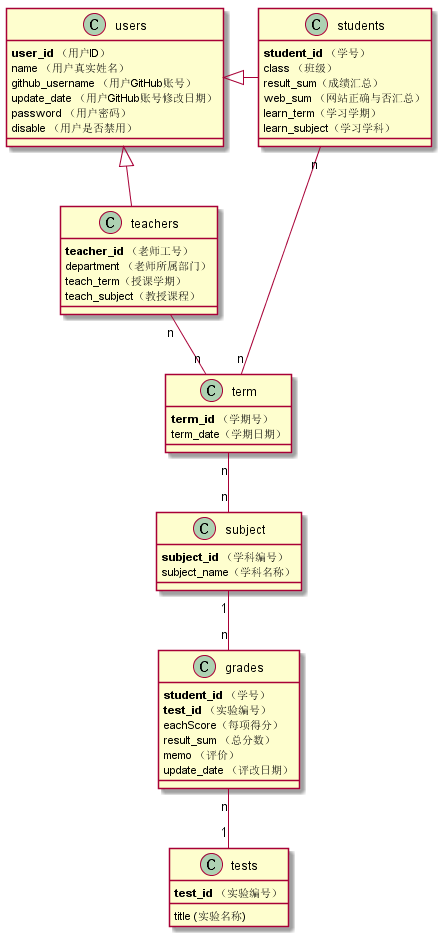
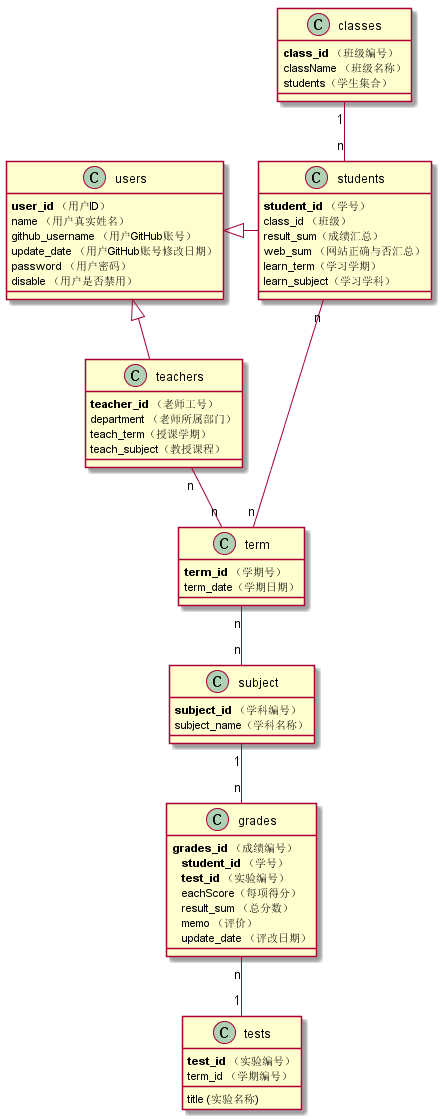
2018/5/26

diff --git a/test6/README.md b/test6/README.md
@@ -1,4 +1,4 @@
-# 实验5：图书管理系统数据库设计与界面设计
+# 实验6：基于GitHub的实验管理平台的分析与设计
 |学号|班级|姓名|照片|
 |:-------:|:-------------: | :----------:|:---:|
 |201510414101|软件(本)15-1|安春生|![flow1](../test1/20607259.png)|
@@ -51,7 +51,7 @@
     |STUDENT_ID|VARCHAR2(50 BYTE)|主键|否| | | 学生的学号|
     |USER_ID|NUMBER(8,0)|外键|是| |空| 学生的用户ID，USERS表的外键，为空表示还没有建立用户|
     |CLASS_ID|VARCHAR2(20 BYTE)|外键|否| | | 班级编号|
-    |RESULT_SUM|VARCHAR2(400 BYTE)|外键|是|空| | 成绩汇总（来自GRADES表），以逗号分开，第一个成绩是平均成绩,后面是每次实验的成绩，每次实验的成绩包含一个总成绩和各项评分的成绩，N表示未批改，平均分只计算已批改的。比如：“81.25,70,80,85,90,N”表示一共批改了4次，第5次未批改，4次的成绩分别是81.25,70,80,85,90,N，4次的平均分是81.25|
+    |GRADES_SUM|VARCHAR2(400 BYTE)| |是|空| |成绩集合|
     |WEB_SUM|VARCHAR2(400 BYTE)| |是|空| | GitHub网址是否正确，用逗号分开，Y代表正确，N代表不正确。第1位代表总的GitHUB地址是否正确，第2位表示第1次实验的地址，第3位表示第2位实验地址，依此类推。比如：“Y,Y,Y,Y,Y,N”表示第5次实验地址不正确，其他地址正确|
     |LEARN_TERM|VARCHAR2(400 BYTE)| |是| | | 学生修课的学期|
     |LEARN_SUBJECT|VARCHAR2(400 BYTE)| |是| | | 学生学习的科目|
@@ -84,7 +84,7 @@
     |:-------:|:-------------:|:------:|:----:|:---:|:----:|:----------|
     |STUDENT_ID|VARCHAR2(50 BYTE)|联合主键1，外键|否| | | 学生的学号，STUDENTS表外键|
     |TEST_ID|NUMBER(6,0)|联合主键2，外键|否| | | 实验编号，TESTS表的外键|
-    |RESULT_SUM|NUMBER| |是|空| 取值0-100| 总分数，这个值为空表示没有批改|
+    |RESULT_SUM|NUMBER| |是|空| 取值0-100| 成绩汇总（来自GRADES表），以逗号分开，第一个成绩是平均成绩,后面是每次实验的成绩，每次实验的成绩包含一个总成绩和各项评分的成绩，N表示未批改，平均分只计算已批改的。比如：“81.25,70,80,85,90,N”表示一共批改了4次，第5次未批改，4次的成绩分别是81.25,70,80,85,90,N，4次的平均分是81.25|
     |MEMO|VARCHAR2(400 BYTE)| |是|空| | 老师对实验的评语|
     |UPDATE_DATE|DATE| |是|空| |老师批改实验的日期，为空表示未批改|
     |EACH_SCORE|VARCHAR2(400 BYTE)| |是|空| | 每个实验的每项考点分数|
